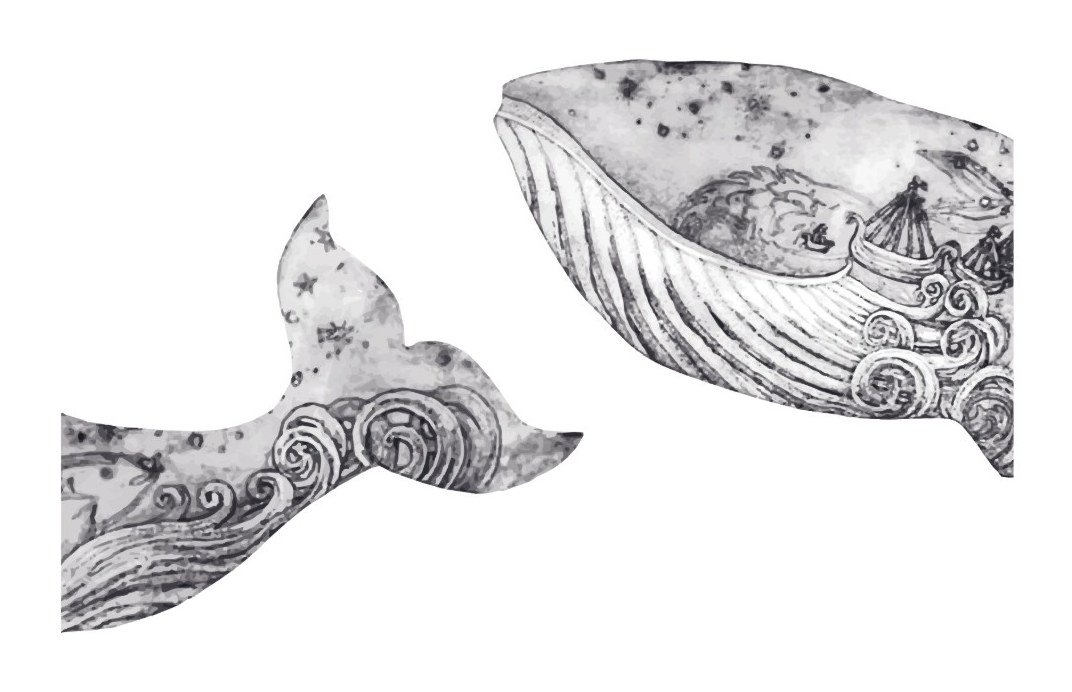
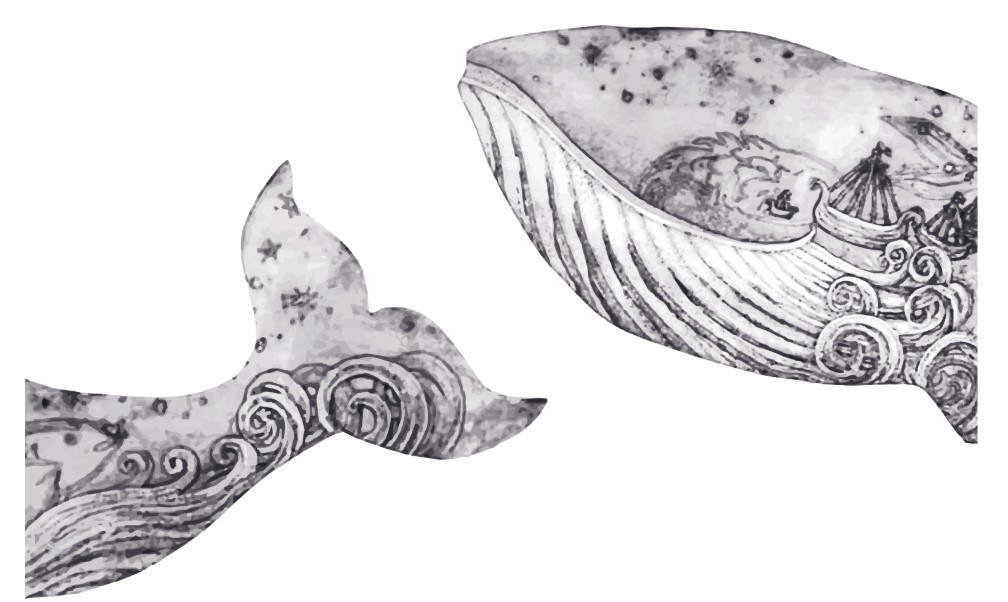
Pasa el verde a esmeralda y aplica los puntos 6, 8, 9 y 13
El verde de los títulos tira ahora a esmeralda: #255647 pasa a #0E6B4F, y
con él los otros dos tonos de la familia. Sobre el crema da 5,9:1 de
contraste, de sobra para leerse.

La banda que ella veía azul es la de los vídeos. Pasa a verde, y con ella el
marco y el botón de reproducir, que también tiraban de la familia azul. En
la hoja de estilos ya no queda ningún uso del azul.

No se ha buscado el PANTONE 253-1 que menciona: esa referencia es de guía
impresa y no tiene una traducción fiel a pantalla, así que se ha ido a un
esmeralda que se le parece. Si quiere otro, que lo diga y se cambia.

Además:

- Punto 6: fuera el «Cuatro poemarios, una veintena…» de Los libros.
- Punto 8: el apartado de ilustraciones se llama ahora «Migración, memoria y
  viaje». La segunda y la tercera se han recortado más ceñidas para que se
  vean del tamaño de la primera: el encuadre se toma por percentiles en vez
  de por el mínimo y el máximo, así una salpicadura suelta en el margen deja
  de arrastrar el recorte.
- Punto 9: «También en antologías» pasa a «En antologías».
- Punto 13: Letras en los cordones lleva sus dos premios bajo la ficha.

Claude-Session: https://claude.ai/code/session_01Xm7QQWjjSPGbaB1Pe2q8WN

Changed region(s): [[0.4306, 0.0299, 0.9841, 0.7475], [0.0, 0.2691, 0.5536, 1.0]]

diff --git a/dist/cristina-falcon-widget.html b/dist/cristina-falcon-widget.html
@@ -135,9 +135,9 @@
   /* Verdes subidos de saturación y de luz respecto a la primera versión:
      en pantalla los anteriores se leían casi como negro y no se percibía
      que fueran verdes. Mismo tono, más cuerpo. */
-  --verde-hondo:   #255647;
-  --verde:         #347461;
-  --verde-claro:   #72AC9A;
+  --verde-hondo:   #0E6B4F;
+  --verde:         #108864;
+  --verde-claro:   #5FBFA0;
   --azul-hondo:    #1B3448;
   --azul:          #2F5975;
   --azul-claro:    #7FA0B7;
@@ -795,6 +795,20 @@
   color: var(--fg-muted);
 }
 #cfm-web .libro__text { font-size: var(--step--1); line-height: 1.7; color: var(--fg-muted); }
+#cfm-web .libro__premios {
+  font-size: var(--step--1);
+  line-height: 1.7;
+  color: var(--fg-muted);
+}
+#cfm-web .libro__premios strong {
+  display: block;
+  font-weight: 500;
+  font-size: 0.82em;
+  letter-spacing: 0.14em;
+  text-transform: uppercase;
+  color: var(--accent-deep);
+  margin-bottom: 0.2rem;
+}
 #cfm-web .libro__actions { display: flex; flex-wrap: wrap; gap: 0.5rem; }
 
 /* Las ilustraciones de portada de los poemarios.
@@ -1039,10 +1053,10 @@
 /* --------------------------------------------------------------------------
    12. Vídeos
    -------------------------------------------------------------------------- */
-#cfm-web .videos { background: var(--azul-hondo); color: var(--crema); }
+#cfm-web .videos { background: var(--verde-hondo); color: var(--crema); }
 #cfm-web .videos .section__title, #cfm-web .videos .kicker { color: var(--crema); }
-#cfm-web .videos .kicker { color: var(--azul-claro); }
-#cfm-web .videos .kicker::before { background: color-mix(in srgb, var(--azul-claro) 45%, transparent); }
+#cfm-web .videos .kicker { color: var(--verde-claro); }
+#cfm-web .videos .kicker::before { background: color-mix(in srgb, var(--verde-claro) 45%, transparent); }
 #cfm-web .videos .lead { color: color-mix(in srgb, var(--crema) 75%, transparent); }
 #cfm-web .videos__grid {
   display: grid;
@@ -1060,7 +1074,7 @@
   aspect-ratio: 16 / 9;
   overflow: hidden;
   border-radius: var(--radius-lg);
-  background: var(--azul);
+  background: var(--verde);
   padding: 0;
 }
 #cfm-web .video__frame img { width: 100%; height: 100%; object-fit: cover; transition: scale 0.6s var(--ease), opacity 0.4s var(--ease); }
@@ -1079,13 +1093,13 @@
   place-items: center;
   border-radius: 50%;
   background: color-mix(in srgb, var(--crema) 92%, transparent);
-  color: var(--azul-hondo);
+  color: var(--verde-hondo);
   transition: scale 0.3s var(--ease);
   pointer-events: none;
 }
 #cfm-web .video__frame:hover .video__play { scale: 1.08; }
 #cfm-web .video__title { font-size: var(--step-1); color: var(--crema); }
-#cfm-web .video__meta { font-size: var(--step--1); letter-spacing: 0.1em; text-transform: uppercase; color: var(--azul-claro); }
+#cfm-web .video__meta { font-size: var(--step--1); letter-spacing: 0.1em; text-transform: uppercase; color: var(--verde-claro); }
 
 /* --------------------------------------------------------------------------
    13. Descargas
@@ -1536,7 +1550,6 @@
         <p class="kicker" data-i18n="obra.kicker">Obra publicada</p>
         <h2 class="section__title" data-i18n="obra.titulo">Los libros</h2>
       </div>
-      <p class="lead" data-i18n="obra.intro">Una obra repartida entre la poesía para adultos y los libros que crecen con quien los lee.</p>
     </div>
 
     <div class="tabs" role="tablist">
@@ -1613,7 +1626,7 @@
             </figcaption>
           </figure>
           <figure class="ilustracion">
-            <img width="1978" height="1414" loading="lazy"
+            <img width="1500" height="828" loading="lazy"
                  src="https://deepskyblue-salmon-196955.hostingersite.com/wp-content/uploads/2026/09/borrar-tinta.jpg" alt=""
                  data-i18n-attr="alt:obra.ilus.p2.alt">
             <figcaption>
@@ -1622,7 +1635,7 @@
             </figcaption>
           </figure>
           <figure class="ilustracion">
-            <img width="1072" height="692" loading="lazy"
+            <img width="1008" height="602" loading="lazy"
                  src="https://deepskyblue-salmon-196955.hostingersite.com/wp-content/uploads/2026/09/itaca-ballena.jpg" alt=""
                  data-i18n-attr="alt:obra.ilus.p1.alt">
             <figcaption>
@@ -1697,6 +1710,7 @@
         <h3 class="libro__title" data-i18n="libro.i5.titulo">—</h3>
         <p class="libro__meta"  data-i18n="libro.i5.meta">—</p>
         <p class="libro__text"  data-i18n="libro.i5.texto">—</p>
+        <p class="libro__premios" data-i18n-html="libro.i5.premios">—</p>
         <div class="libro__actions">
           <a class="btn btn--ghost btn--sm" href="https://kalandraka.com/letras-en-los-cordones-castellano" target="_blank" rel="noopener" data-i18n="obra.editorial">Ver en la editorial</a>
         </div>
@@ -2287,9 +2301,8 @@ window.I18N = {
     /* Obra */
     "obra.kicker": "Obra publicada",
     "obra.titulo": "Los libros",
-    "obra.intro": "Cuatro poemarios, una veintena de libros para la infancia y la presencia en antologías de poesía venezolana e iberoamericana.",
     "obra.tab.poesia": "Poesía",
-    "obra.ilustraciones.titulo": "Las ilustraciones de portada",
+    "obra.ilustraciones.titulo": "Migración, memoria y viaje",
     "obra.ilustraciones.intro": "Los tres poemarios de Candaya llevan en la cubierta una imagen distinta. Aquí están sueltas, fuera del libro.",
     "obra.ilus.p1.alt": "Ilustración de la portada de Ítaca es nunca: una ballena de acuarela con barcos y olas dibujados dentro",
     "obra.ilus.p1.pie": "Prólogo de Miriam Reyes",
@@ -2310,7 +2323,7 @@ window.I18N = {
     "obra.comprar": "Más información",
     "obra.fragmento": "Fragmento",
     "obra.descargar": "Descargar",
-    "obra.antologias.titulo": "También en antologías",
+    "obra.antologias.titulo": "En antologías",
     "obra.antologias.texto": "En obra. Poesía venezolana 1983-2008 (Equinoccio, Universidad Simón Bolívar) · El corazón de Venezuela. Patria y poesía (Red Nacional de Escritores de Venezuela) · La altura del vuelo, poetas iberoamericanos (Salamanca, 2011) · Ellas, antología de poetas venezolanas (Valencia, Venezuela, 2013) · El puente es la palabra. Antología de poetas venezolanos en la diáspora (2019) · ¡Aquí la Tierra! Poemas para un mundo en apuros (Valparaíso Ediciones, 2020).",
 
     /* Reseñas */
@@ -2467,6 +2480,7 @@ window.I18N = {
     "libro.i5.titulo": "Letras en los cordones",
     "libro.i5.meta": "Infantil · Kalandraka · 2012",
     "libro.i5.texto": "Publicado por Kalandraka Editora (Pontevedra).",
+    "libro.i5.premios": "<strong>Premios</strong>Bienal de Bratislava, 2013<br>Segundo Premio de Álbum Ilustrado, Fundación Caja de Ahorros de Centro (Italia), 2013",
     "libro.i6.titulo": "1, 2, 3, de repente en…",
     "libro.i6.meta": "Colección · Edebé · 2011-2012",
     "libro.i6.texto": "Colección publicada por Edebé y editada también en Estados Unidos (Barron's), Canadá (Heritage), Brasil (Miranda Cultural) y Turquía (Tubitak).",
@@ -2522,9 +2536,8 @@ window.I18N = {
 
     "obra.kicker": "Published work",
     "obra.titulo": "The books",
-    "obra.intro": "Four poetry collections, some twenty books for children, and a presence in anthologies of Venezuelan and Ibero-American poetry.",
     "obra.tab.poesia": "Poetry",
-    "obra.ilustraciones.titulo": "The cover artwork",
+    "obra.ilustraciones.titulo": "Migration, memory and journey",
     "obra.ilustraciones.intro": "Each of the three Candaya collections carries a different image on its cover. Here they are on their own, away from the book.",
     "obra.ilus.p1.alt": "Cover artwork for Ítaca es nunca: a watercolour whale with boats and waves drawn inside it",
     "obra.ilus.p1.pie": "Preface by Miriam Reyes",
@@ -2545,7 +2558,7 @@ window.I18N = {
     "obra.comprar": "More information",
     "obra.fragmento": "Excerpt",
     "obra.descargar": "Download",
-    "obra.antologias.titulo": "Also in anthologies",
+    "obra.antologias.titulo": "In anthologies",
     "obra.antologias.texto": "En obra. Poesía venezolana 1983-2008 (Equinoccio, Universidad Simón Bolívar) · El corazón de Venezuela. Patria y poesía (Red Nacional de Escritores de Venezuela) · La altura del vuelo, Ibero-American poets (Salamanca, 2011) · Ellas, an anthology of Venezuelan women poets (Valencia, Venezuela, 2013) · El puente es la palabra. Venezuelan poets in the diaspora (2019) · ¡Aquí la Tierra! Poemas para un mundo en apuros (Valparaíso Ediciones, 2020).",
 
     "resenas.kicker": "Reviews",
@@ -2692,6 +2705,7 @@ window.I18N = {
     "libro.i5.titulo": "Letras en los cordones",
     "libro.i5.meta": "Children's · Kalandraka · 2012",
     "libro.i5.texto": "Published by Kalandraka Editora (Pontevedra).",
+    "libro.i5.premios": "<strong>Awards</strong>Bratislava Biennial, 2013<br>Second Prize for Picture Book, Fundación Caja de Ahorros de Centro (Italy), 2013",
     "libro.i6.titulo": "1, 2, 3, de repente en…",
     "libro.i6.meta": "Series · Edebé · 2011-2012",
     "libro.i6.texto": "A series published by Edebé and also issued in the United States (Barron's), Canada (Heritage), Brazil (Miranda Cultural) and Turkey (Tubitak).",

diff --git a/assets/js/i18n.js b/assets/js/i18n.js
@@ -59,9 +59,8 @@ window.I18N = {
     /* Obra */
     "obra.kicker": "Obra publicada",
     "obra.titulo": "Los libros",
-    "obra.intro": "Cuatro poemarios, una veintena de libros para la infancia y la presencia en antologías de poesía venezolana e iberoamericana.",
     "obra.tab.poesia": "Poesía",
-    "obra.ilustraciones.titulo": "Las ilustraciones de portada",
+    "obra.ilustraciones.titulo": "Migración, memoria y viaje",
     "obra.ilustraciones.intro": "Los tres poemarios de Candaya llevan en la cubierta una imagen distinta. Aquí están sueltas, fuera del libro.",
     "obra.ilus.p1.alt": "Ilustración de la portada de Ítaca es nunca: una ballena de acuarela con barcos y olas dibujados dentro",
     "obra.ilus.p1.pie": "Prólogo de Miriam Reyes",
@@ -82,7 +81,7 @@ window.I18N = {
     "obra.comprar": "Más información",
     "obra.fragmento": "Fragmento",
     "obra.descargar": "Descargar",
-    "obra.antologias.titulo": "También en antologías",
+    "obra.antologias.titulo": "En antologías",
     "obra.antologias.texto": "En obra. Poesía venezolana 1983-2008 (Equinoccio, Universidad Simón Bolívar) · El corazón de Venezuela. Patria y poesía (Red Nacional de Escritores de Venezuela) · La altura del vuelo, poetas iberoamericanos (Salamanca, 2011) · Ellas, antología de poetas venezolanas (Valencia, Venezuela, 2013) · El puente es la palabra. Antología de poetas venezolanos en la diáspora (2019) · ¡Aquí la Tierra! Poemas para un mundo en apuros (Valparaíso Ediciones, 2020).",
 
     /* Reseñas */
@@ -239,6 +238,7 @@ window.I18N = {
     "libro.i5.titulo": "Letras en los cordones",
     "libro.i5.meta": "Infantil · Kalandraka · 2012",
     "libro.i5.texto": "Publicado por Kalandraka Editora (Pontevedra).",
+    "libro.i5.premios": "<strong>Premios</strong>Bienal de Bratislava, 2013<br>Segundo Premio de Álbum Ilustrado, Fundación Caja de Ahorros de Centro (Italia), 2013",
     "libro.i6.titulo": "1, 2, 3, de repente en…",
     "libro.i6.meta": "Colección · Edebé · 2011-2012",
     "libro.i6.texto": "Colección publicada por Edebé y editada también en Estados Unidos (Barron's), Canadá (Heritage), Brasil (Miranda Cultural) y Turquía (Tubitak).",
@@ -294,9 +294,8 @@ window.I18N = {
 
     "obra.kicker": "Published work",
     "obra.titulo": "The books",
-    "obra.intro": "Four poetry collections, some twenty books for children, and a presence in anthologies of Venezuelan and Ibero-American poetry.",
     "obra.tab.poesia": "Poetry",
-    "obra.ilustraciones.titulo": "The cover artwork",
+    "obra.ilustraciones.titulo": "Migration, memory and journey",
     "obra.ilustraciones.intro": "Each of the three Candaya collections carries a different image on its cover. Here they are on their own, away from the book.",
     "obra.ilus.p1.alt": "Cover artwork for Ítaca es nunca: a watercolour whale with boats and waves drawn inside it",
     "obra.ilus.p1.pie": "Preface by Miriam Reyes",
@@ -317,7 +316,7 @@ window.I18N = {
     "obra.comprar": "More information",
     "obra.fragmento": "Excerpt",
     "obra.descargar": "Download",
-    "obra.antologias.titulo": "Also in anthologies",
+    "obra.antologias.titulo": "In anthologies",
     "obra.antologias.texto": "En obra. Poesía venezolana 1983-2008 (Equinoccio, Universidad Simón Bolívar) · El corazón de Venezuela. Patria y poesía (Red Nacional de Escritores de Venezuela) · La altura del vuelo, Ibero-American poets (Salamanca, 2011) · Ellas, an anthology of Venezuelan women poets (Valencia, Venezuela, 2013) · El puente es la palabra. Venezuelan poets in the diaspora (2019) · ¡Aquí la Tierra! Poemas para un mundo en apuros (Valparaíso Ediciones, 2020).",
 
     "resenas.kicker": "Reviews",
@@ -464,6 +463,7 @@ window.I18N = {
     "libro.i5.titulo": "Letras en los cordones",
     "libro.i5.meta": "Children's · Kalandraka · 2012",
     "libro.i5.texto": "Published by Kalandraka Editora (Pontevedra).",
+    "libro.i5.premios": "<strong>Awards</strong>Bratislava Biennial, 2013<br>Second Prize for Picture Book, Fundación Caja de Ahorros de Centro (Italy), 2013",
     "libro.i6.titulo": "1, 2, 3, de repente en…",
     "libro.i6.meta": "Series · Edebé · 2011-2012",
     "libro.i6.texto": "A series published by Edebé and also issued in the United States (Barron's), Canada (Heritage), Brazil (Miranda Cultural) and Turkey (Tubitak).",

diff --git a/assets/css/styles.css b/assets/css/styles.css
@@ -13,9 +13,9 @@
   /* Verdes subidos de saturación y de luz respecto a la primera versión:
      en pantalla los anteriores se leían casi como negro y no se percibía
      que fueran verdes. Mismo tono, más cuerpo. */
-  --verde-hondo:   #255647;
-  --verde:         #347461;
-  --verde-claro:   #72AC9A;
+  --verde-hondo:   #0E6B4F;
+  --verde:         #108864;
+  --verde-claro:   #5FBFA0;
   --azul-hondo:    #1B3448;
   --azul:          #2F5975;
   --azul-claro:    #7FA0B7;
@@ -720,6 +720,20 @@ body.nav-open .burger span::after  { translate: 0 0; rotate: -45deg; }
   color: var(--fg-muted);
 }
 .libro__text { font-size: var(--step--1); line-height: 1.7; color: var(--fg-muted); }
+.libro__premios {
+  font-size: var(--step--1);
+  line-height: 1.7;
+  color: var(--fg-muted);
+}
+.libro__premios strong {
+  display: block;
+  font-weight: 500;
+  font-size: 0.82em;
+  letter-spacing: 0.14em;
+  text-transform: uppercase;
+  color: var(--accent-deep);
+  margin-bottom: 0.2rem;
+}
 .libro__actions { display: flex; flex-wrap: wrap; gap: 0.5rem; }
 
 /* Las ilustraciones de portada de los poemarios.
@@ -971,11 +985,11 @@ body.nav-open .burger span::after  { translate: 0 0; rotate: -45deg; }
 /* --------------------------------------------------------------------------
    12. Vídeos
    -------------------------------------------------------------------------- */
-.videos { background: var(--azul-hondo); color: var(--crema); }
+.videos { background: var(--verde-hondo); color: var(--crema); }
 
 .videos .section__title, .videos .kicker { color: var(--crema); }
-.videos .kicker { color: var(--azul-claro); }
-.videos .kicker::before { background: color-mix(in srgb, var(--azul-claro) 45%, transparent); }
+.videos .kicker { color: var(--verde-claro); }
+.videos .kicker::before { background: color-mix(in srgb, var(--verde-claro) 45%, transparent); }
 .videos .lead { color: color-mix(in srgb, var(--crema) 75%, transparent); }
 
 .videos__grid {
@@ -996,7 +1010,7 @@ body.nav-open .burger span::after  { translate: 0 0; rotate: -45deg; }
   aspect-ratio: 16 / 9;
   overflow: hidden;
   border-radius: var(--radius-lg);
-  background: var(--azul);
+  background: var(--verde);
   padding: 0;
 }
 .video__frame img { width: 100%; height: 100%; object-fit: cover; transition: scale 0.6s var(--ease), opacity 0.4s var(--ease); }
@@ -1017,14 +1031,14 @@ body.nav-open .burger span::after  { translate: 0 0; rotate: -45deg; }
   place-items: center;
   border-radius: 50%;
   background: color-mix(in srgb, var(--crema) 92%, transparent);
-  color: var(--azul-hondo);
+  color: var(--verde-hondo);
   transition: scale 0.3s var(--ease);
   pointer-events: none;
 }
 .video__frame:hover .video__play { scale: 1.08; }
 
 .video__title { font-size: var(--step-1); color: var(--crema); }
-.video__meta { font-size: var(--step--1); letter-spacing: 0.1em; text-transform: uppercase; color: var(--azul-claro); }
+.video__meta { font-size: var(--step--1); letter-spacing: 0.1em; text-transform: uppercase; color: var(--verde-claro); }
 
 /* --------------------------------------------------------------------------
    13. Descargas

diff --git a/index.html b/index.html
@@ -206,7 +206,6 @@
         <p class="kicker" data-i18n="obra.kicker">Obra publicada</p>
         <h2 class="section__title" data-i18n="obra.titulo">Los libros</h2>
       </div>
-      <p class="lead" data-i18n="obra.intro">Una obra repartida entre la poesía para adultos y los libros que crecen con quien los lee.</p>
     </div>
 
     <div class="tabs" role="tablist">
@@ -283,7 +282,7 @@
             </figcaption>
           </figure>
           <figure class="ilustracion">
-            <img width="1978" height="1414" loading="lazy"
+            <img width="1500" height="828" loading="lazy"
                  src="assets/img/obra/ilustraciones/borrar-tinta.jpg" alt=""
                  data-i18n-attr="alt:obra.ilus.p2.alt">
             <figcaption>
@@ -292,7 +291,7 @@
             </figcaption>
           </figure>
           <figure class="ilustracion">
-            <img width="1072" height="692" loading="lazy"
+            <img width="1008" height="602" loading="lazy"
                  src="assets/img/obra/ilustraciones/itaca-ballena.jpg" alt=""
                  data-i18n-attr="alt:obra.ilus.p1.alt">
             <figcaption>
@@ -367,6 +366,7 @@
         <h3 class="libro__title" data-i18n="libro.i5.titulo">—</h3>
         <p class="libro__meta"  data-i18n="libro.i5.meta">—</p>
         <p class="libro__text"  data-i18n="libro.i5.texto">—</p>
+        <p class="libro__premios" data-i18n-html="libro.i5.premios">—</p>
         <div class="libro__actions">
           <a class="btn btn--ghost btn--sm" href="https://kalandraka.com/letras-en-los-cordones-castellano" target="_blank" rel="noopener" data-i18n="obra.editorial">Ver en la editorial</a>
         </div>
